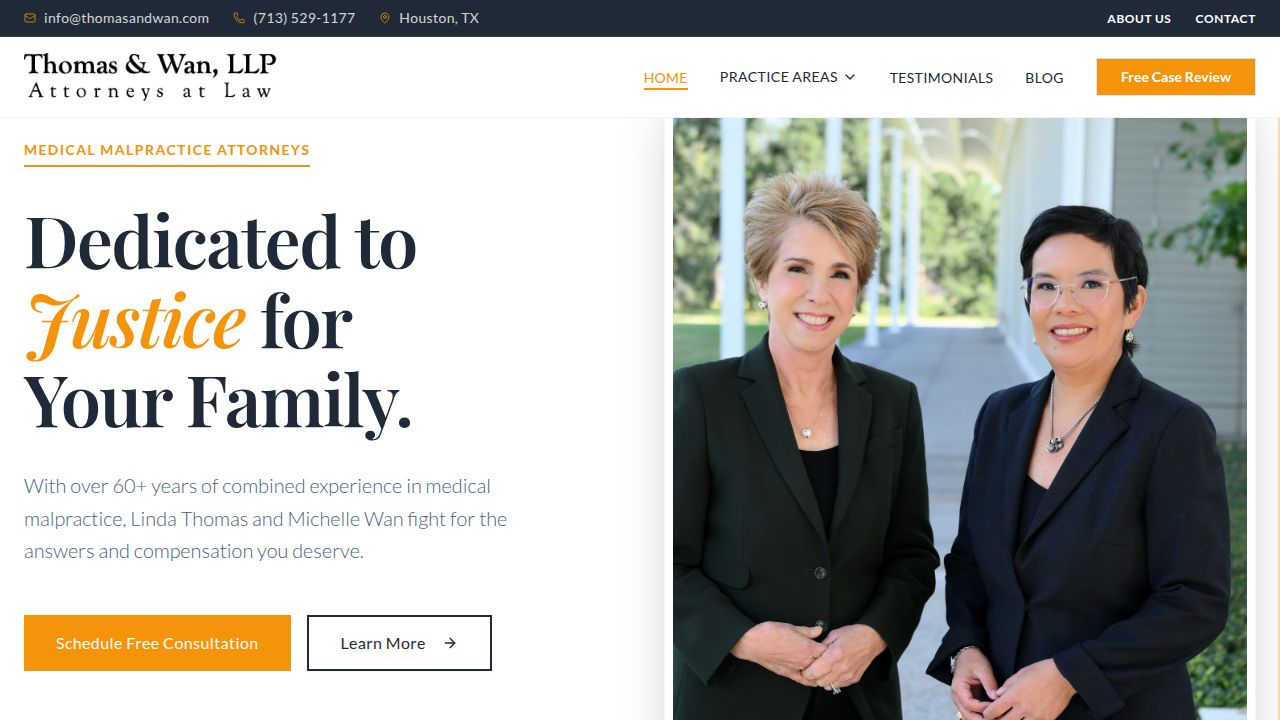
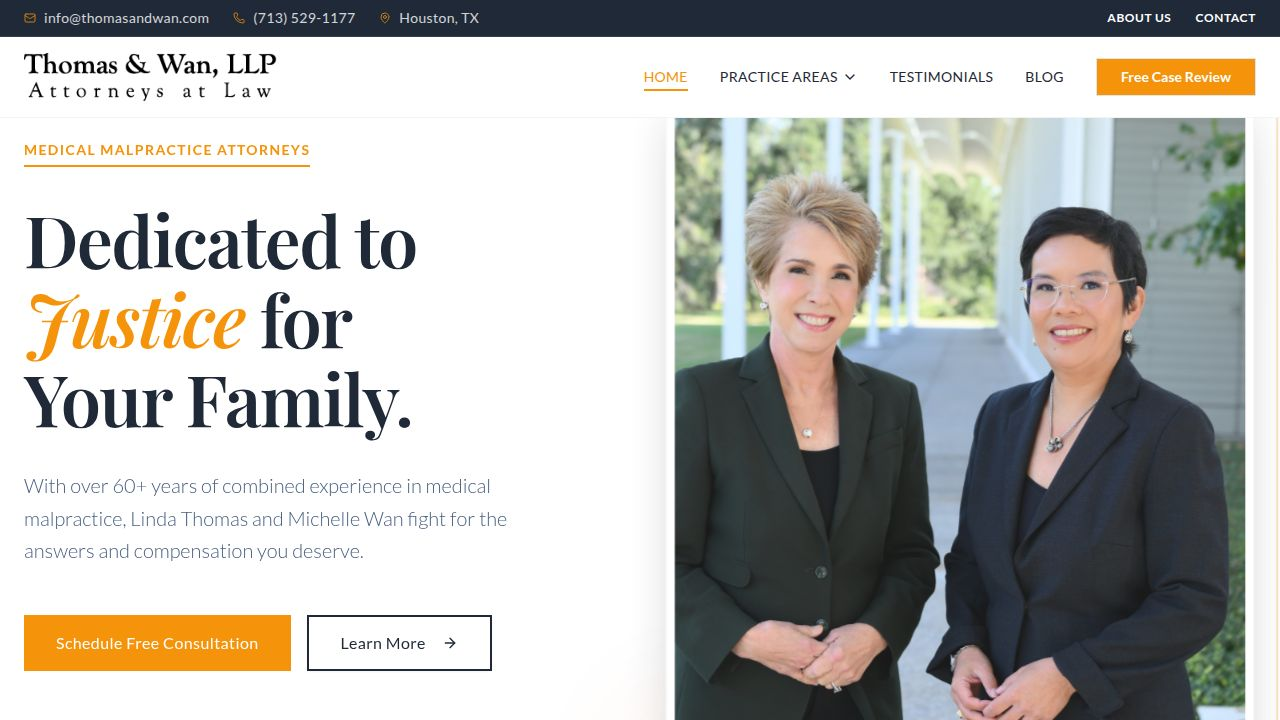
Update navigation and blog links to use modern component patterns
Refactors Link components across Navigation and BlogSection to remove nested anchor tags, adopting a more current pattern for improved accessibility and rendering.

Replit-Commit-Author: Agent
Replit-Commit-Session-Id: 595245bc-66b4-4f3c-b5cb-345f3c65086f
Replit-Commit-Checkpoint-Type: full_checkpoint
Replit-Commit-Event-Id: 12e4f56b-fe9d-422b-8cea-2b0343d50fdf
Replit-Commit-Screenshot-Url: https://storage.googleapis.com/screenshot-production-us-central1/c2cc1403-2177-4233-8c7d-12b18c71f9fa/595245bc-66b4-4f3c-b5cb-345f3c65086f/I1GEVEr
Replit-Helium-Checkpoint-Created: true

diff --git a/client/src/components/Navigation.tsx b/client/src/components/Navigation.tsx
@@ -51,11 +51,17 @@ export default function Navigation() {
              </div>
           </div>
           <div className="flex items-center gap-6">
-            <Link href="/about">
-              <a className="hover:text-secondary transition-colors uppercase tracking-wider text-xs font-bold">About Us</a>
+            <Link
+              href="/about"
+              className="hover:text-secondary transition-colors uppercase tracking-wider text-xs font-bold"
+            >
+              About Us
             </Link>
-            <Link href="/contact">
-              <a className="hover:text-secondary transition-colors uppercase tracking-wider text-xs font-bold">Contact</a>
+            <Link
+              href="/contact"
+              className="hover:text-secondary transition-colors uppercase tracking-wider text-xs font-bold"
+            >
+              Contact
             </Link>
           </div>
         </div>
@@ -69,31 +75,28 @@ export default function Navigation() {
         )}
       >
         <div className="container mx-auto px-4 md:px-6 flex items-center justify-between">
-          <Link href="/">
-            <a className="flex items-center gap-2">
-              <img 
-                src="/images/logo.webp" 
-                alt="Thomas & Wan" 
-                className={cn("w-auto object-contain transition-all duration-300", scrolled ? "h-8" : "h-10 md:h-12")}
-              />
-            </a>
+          <Link href="/" className="flex items-center gap-2">
+            <img 
+              src="/images/logo.webp" 
+              alt="Thomas & Wan" 
+              className={cn("w-auto object-contain transition-all duration-300", scrolled ? "h-8" : "h-10 md:h-12")}
+            />
           </Link>
 
           {/* Desktop Nav */}
           <div className="hidden md:flex items-center gap-8">
-            <Link href="/">
-              <a
-                className={cn(
-                  "text-sm font-medium tracking-wide uppercase transition-colors hover:text-secondary relative group",
-                  location === "/" ? "text-secondary" : "text-primary"
-                )}
-              >
-                Home
-                <span className={cn(
-                  "absolute -bottom-1 left-0 w-full h-0.5 bg-secondary transform scale-x-0 transition-transform duration-300 group-hover:scale-x-100",
-                  location === "/" ? "scale-x-100" : ""
-                )} />
-              </a>
+            <Link
+              href="/"
+              className={cn(
+                "text-sm font-medium tracking-wide uppercase transition-colors hover:text-secondary relative group",
+                location === "/" ? "text-secondary" : "text-primary"
+              )}
+            >
+              Home
+              <span className={cn(
+                "absolute -bottom-1 left-0 w-full h-0.5 bg-secondary transform scale-x-0 transition-transform duration-300 group-hover:scale-x-100",
+                location === "/" ? "scale-x-100" : ""
+              )} />
             </Link>
 
             {/* Practice Areas Dropdown */}
@@ -102,20 +105,19 @@ export default function Navigation() {
               onMouseEnter={() => setPracticeAreasOpen(true)}
               onMouseLeave={() => setPracticeAreasOpen(false)}
             >
-              <Link href="/practice-areas">
-                <a
-                  className={cn(
-                    "text-sm font-medium tracking-wide uppercase transition-colors hover:text-secondary relative flex items-center gap-1",
-                    location.startsWith("/practice-areas") ? "text-secondary" : "text-primary"
-                  )}
-                >
-                  Practice Areas
-                  <ChevronDown className={cn("w-4 h-4 transition-transform", practiceAreasOpen ? "rotate-180" : "")} />
-                  <span className={cn(
-                    "absolute -bottom-1 left-0 w-full h-0.5 bg-secondary transform scale-x-0 transition-transform duration-300 group-hover:scale-x-100",
-                    location.startsWith("/practice-areas") ? "scale-x-100" : ""
-                  )} />
-                </a>
+              <Link
+                href="/practice-areas"
+                className={cn(
+                  "text-sm font-medium tracking-wide uppercase transition-colors hover:text-secondary relative flex items-center gap-1",
+                  location.startsWith("/practice-areas") ? "text-secondary" : "text-primary"
+                )}
+              >
+                Practice Areas
+                <ChevronDown className={cn("w-4 h-4 transition-transform", practiceAreasOpen ? "rotate-180" : "")} />
+                <span className={cn(
+                  "absolute -bottom-1 left-0 w-full h-0.5 bg-secondary transform scale-x-0 transition-transform duration-300 group-hover:scale-x-100",
+                  location.startsWith("/practice-areas") ? "scale-x-100" : ""
+                )} />
               </Link>
               
               {/* Dropdown Menu */}
@@ -125,15 +127,15 @@ export default function Navigation() {
               )}>
                 <div className="bg-white shadow-lg border border-gray-100 py-2">
                   {practiceAreaSubmenu.map((item) => (
-                    <Link key={item.name} href={item.href}>
-                      <a
-                        className={cn(
-                          "block px-4 py-3 text-sm font-medium hover:bg-gray-50 hover:text-secondary transition-colors",
-                          location === item.href ? "text-secondary bg-gray-50" : "text-primary"
-                        )}
-                      >
-                        {item.name}
-                      </a>
+                    <Link
+                      key={item.name}
+                      href={item.href}
+                      className={cn(
+                        "block px-4 py-3 text-sm font-medium hover:bg-gray-50 hover:text-secondary transition-colors",
+                        location === item.href ? "text-secondary bg-gray-50" : "text-primary"
+                      )}
+                    >
+                      {item.name}
                     </Link>
                   ))}
                 </div>
@@ -141,30 +143,33 @@ export default function Navigation() {
             </div>
 
             {navLinks.slice(1).map((link) => (
-              <Link key={link.name} href={link.href}>
-                <a
-                  className={cn(
-                    "text-sm font-medium tracking-wide uppercase transition-colors hover:text-secondary relative group",
-                    location === link.href ? "text-secondary" : "text-primary"
-                  )}
-                >
-                  {link.name}
-                  <span className={cn(
-                    "absolute -bottom-1 left-0 w-full h-0.5 bg-secondary transform scale-x-0 transition-transform duration-300 group-hover:scale-x-100",
-                    location === link.href ? "scale-x-100" : ""
-                  )} />
-                </a>
+              <Link
+                key={link.name}
+                href={link.href}
+                className={cn(
+                  "text-sm font-medium tracking-wide uppercase transition-colors hover:text-secondary relative group",
+                  location === link.href ? "text-secondary" : "text-primary"
+                )}
+              >
+                {link.name}
+                <span className={cn(
+                  "absolute -bottom-1 left-0 w-full h-0.5 bg-secondary transform scale-x-0 transition-transform duration-300 group-hover:scale-x-100",
+                  location === link.href ? "scale-x-100" : ""
+                )} />
               </Link>
             ))}
-            <Button className="bg-secondary hover:bg-secondary/90 text-white font-bold rounded-none px-6">
-              Free Case Review
-            </Button>
+            <Link href="/contact">
+              <Button className="bg-secondary hover:bg-secondary/90 text-white font-bold rounded-none px-6 py-2 h-auto">
+                Free Case Review
+              </Button>
+            </Link>
           </div>
 
           {/* Mobile Menu Toggle */}
           <button
-            className="md:hidden text-primary"
+            className="md:hidden text-primary p-2"
             onClick={() => setIsOpen(!isOpen)}
+            aria-label="Toggle menu"
           >
             {isOpen ? <X className="w-6 h-6" /> : <Menu className="w-6 h-6" />}
           </button>
@@ -173,13 +178,12 @@ export default function Navigation() {
         {/* Mobile Nav */}
         {isOpen && (
           <div className="md:hidden absolute top-full left-0 w-full bg-white border-b border-border p-4 shadow-lg flex flex-col gap-4 animate-in slide-in-from-top-5 max-h-[80vh] overflow-y-auto">
-            <Link href="/">
-              <a
-                className="text-primary font-medium text-lg py-2 border-b border-gray-100"
-                onClick={() => setIsOpen(false)}
-              >
-                Home
-              </a>
+            <Link
+              href="/"
+              className="text-primary font-medium text-lg py-2 border-b border-gray-100"
+              onClick={() => setIsOpen(false)}
+            >
+              Home
             </Link>
             
             {/* Practice Areas with submenu on mobile */}
@@ -193,22 +197,21 @@ export default function Navigation() {
               </button>
               {practiceAreasOpen && (
                 <div className="pl-4 pb-2">
-                  <Link href="/practice-areas">
-                    <a
+                  <Link
+                    href="/practice-areas"
+                    className="block text-primary/80 font-medium py-2"
+                    onClick={() => setIsOpen(false)}
+                  >
+                    All Practice Areas
+                  </Link>
+                  {practiceAreaSubmenu.map((item) => (
+                    <Link
+                      key={item.name}
+                      href={item.href}
                       className="block text-primary/80 font-medium py-2"
                       onClick={() => setIsOpen(false)}
                     >
-                      All Practice Areas
-                    </a>
-                  </Link>
-                  {practiceAreaSubmenu.map((item) => (
-                    <Link key={item.name} href={item.href}>
-                      <a
-                        className="block text-primary/80 font-medium py-2"
-                        onClick={() => setIsOpen(false)}
-                      >
-                        {item.name}
-                      </a>
+                      {item.name}
                     </Link>
                   ))}
                 </div>
@@ -216,24 +219,28 @@ export default function Navigation() {
             </div>
 
             {navLinks.slice(1).map((link) => (
-              <Link key={link.name} href={link.href}>
-                <a
-                  className="text-primary font-medium text-lg py-2 border-b border-gray-100"
-                  onClick={() => setIsOpen(false)}
-                >
-                  {link.name}
-                </a>
+              <Link
+                key={link.name}
+                href={link.href}
+                className="text-primary font-medium text-lg py-2 border-b border-gray-100"
+                onClick={() => setIsOpen(false)}
+              >
+                {link.name}
               </Link>
             ))}
-            <Link href="/about">
-              <a className="text-primary font-medium text-lg py-2 border-b border-gray-100" onClick={() => setIsOpen(false)}>
-                About Us
-              </a>
+            <Link
+              href="/about"
+              className="text-primary font-medium text-lg py-2 border-b border-gray-100"
+              onClick={() => setIsOpen(false)}
+            >
+              About Us
             </Link>
-            <Link href="/contact">
-              <a className="text-primary font-medium text-lg py-2 border-b border-gray-100" onClick={() => setIsOpen(false)}>
-                Contact
-              </a>
+            <Link
+              href="/contact"
+              className="text-primary font-medium text-lg py-2 border-b border-gray-100"
+              onClick={() => setIsOpen(false)}
+            >
+              Contact
             </Link>
             <div className="flex flex-col gap-2 mt-2">
                <a href="tel:713-529-1177" className="flex items-center gap-2 text-primary font-medium text-lg">
@@ -243,9 +250,11 @@ export default function Navigation() {
                  <Mail className="w-5 h-5 text-secondary" /> info@thomasandwan.com
                </a>
             </div>
-            <Button className="w-full bg-secondary hover:bg-secondary/90 text-white font-bold rounded-none mt-2">
-              Call Now
-            </Button>
+            <Link href="/contact" onClick={() => setIsOpen(false)}>
+              <Button className="w-full bg-secondary hover:bg-secondary/90 text-white font-bold rounded-none mt-2 py-3 h-auto">
+                Free Case Review
+              </Button>
+            </Link>
           </div>
         )}
       </nav>

diff --git a/client/src/components/BlogSection.tsx b/client/src/components/BlogSection.tsx
@@ -41,11 +41,12 @@ export default function BlogSection() {
               Legal Resources & News
             </h2>
           </div>
-          <Link href="/blog">
-            <a className="inline-flex items-center text-primary font-bold uppercase tracking-wide hover:text-secondary transition-colors group">
-              View All Articles 
-              <ArrowRight className="ml-2 w-4 h-4 transition-transform group-hover:translate-x-1" />
-            </a>
+          <Link
+            href="/blog"
+            className="inline-flex items-center text-primary font-bold uppercase tracking-wide hover:text-secondary transition-colors group"
+          >
+            View All Articles 
+            <ArrowRight className="ml-2 w-4 h-4 transition-transform group-hover:translate-x-1" />
           </Link>
         </div>
 
